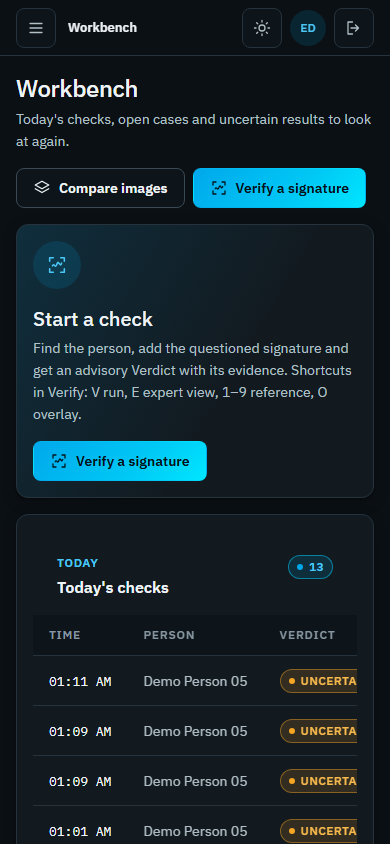
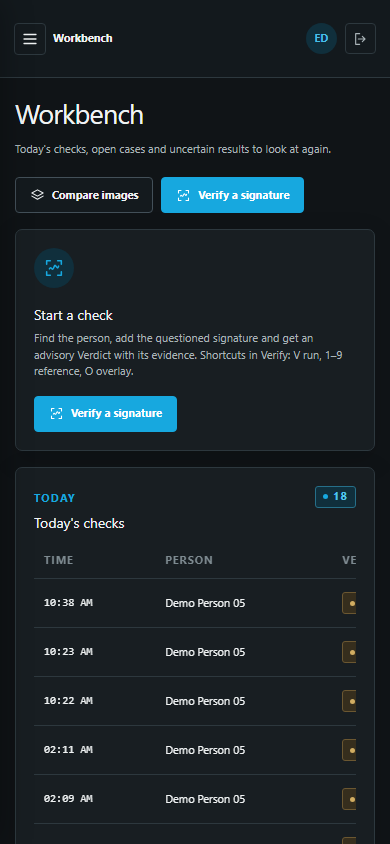
Refresh README screenshots and testing guide for the new presets

diff --git a/TESTING.md b/TESTING.md
@@ -51,18 +51,18 @@ pnpm test:ui
 
 | # | Do this | You should see |
 |---|---|---|
-| 1 | Login → **Examiner demo** | Workbench first; sidebar groups Examine, Library, Evidence, System |
-| 2 | Log out → **Supervisor demo** | Dashboard first, plus Reports and Settings |
+| 1 | Login → **Examiner demo** | Workbench first; top bar says REAL DATA; one MODULES list |
+| 2 | Log out → **Supervisor demo** | Dashboard first; top bar says SAMPLE DATA. This preset is a display preview with fixed sample data and does not use the service |
 | 3 | Reference Library | 8 "Demo Person" entries, each with a consistency label |
 | 4 | Verify → Demo Person 05 → upload `full_org/original_5_14.png` | A verdict for a genuine sample *not* used for enrolment |
 | 5 | Same person → upload `full_forg/forgeries_5_3.png` | A verdict for a forgery |
-| 6 | Switch to **Expert view** (or press E) | Panels A–H with real numbers; the policy line says *provisional* |
+| 6 | Scroll below the verdict | Expert panels A–H with real numbers; the policy line says *provisional* |
 | 7 | Upload a blank white image | "Blank or almost blank" message, Run verification is disabled |
 | 8 | Enrol a new person with only 11 images | Create profile is blocked with the reason |
 | 9 | Cases → open the check from step 4 → Record decision "Accepted" | Decision and timeline saved |
 | 10 | Stop uvicorn (Ctrl+C) and wait a few seconds | "The analysis service is not running" banner |
-| 11 | Research Lab → Method comparison → All | Our method · R1-WAW 0.837, shared yardstick 0.831, standard 0.772 |
-| 12 | Research Lab → Dataset check → Bengali | Shortcut 0.936 is higher than our method, with the warning text |
+| 11 | Examiner → Research Lab → Method comparison → All | Our method · R1-WAW 0.837, shared yardstick 0.831, standard 0.772 |
+| 12 | Examiner → Research Lab → Dataset check → Bengali | Shortcut 0.936 is higher than our method, with the warning text |
 
 Use images numbered **13–24** and the forgeries for testing: images 1–12 are the enrolment samples.
 Expect some wrong verdicts: the model's equal error rate is about 21%. That is the honest behaviour of the

diff --git a/README.md b/README.md
@@ -25,7 +25,7 @@
 
 ### Examiner Workspace
 
-A workbench of today's checks and open cases, Verify with an inspectable verdict, and a manual Compare tool for any set of images.
+Works on your own data: enrol people, verify a signature and inspect the evidence behind the verdict, with a manual Compare tool and saved cases.
 
 </td>
 <td width="50%">
@@ -38,7 +38,7 @@ A workbench of today's checks and open cases, Verify with an inspectable verdict
 
 ### Supervisor Overview
 
-Oversee checks, uncertain results and human decisions, with reports over time and the model's research results.
+A preview of the oversight screens (dashboard, review queue, reports, research results) filled with sample data from the research datasets.
 
 </td>
 <td width="50%">
